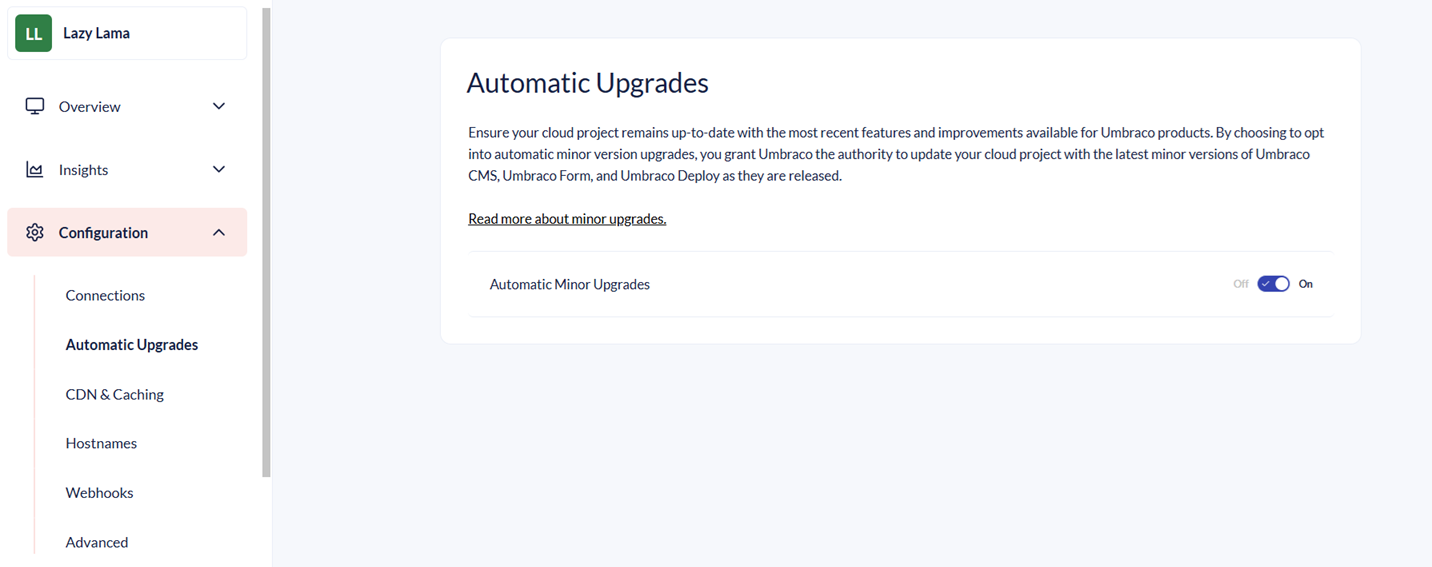
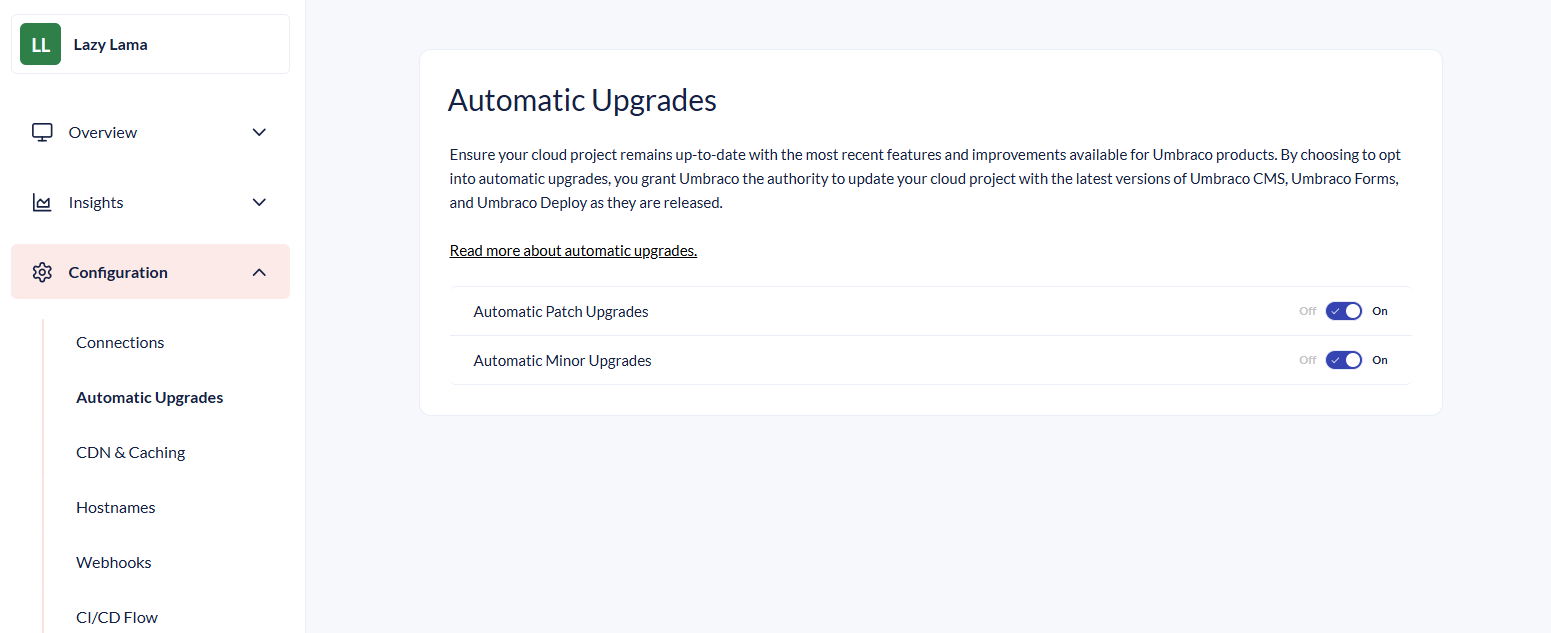
Merge cherry pick of release notes

diff --git a/umbraco-cloud/optimize-and-maintain-your-site/manage-product-upgrades/product-upgrades/README.md b/umbraco-cloud/optimize-and-maintain-your-site/manage-product-upgrades/product-upgrades/README.md
@@ -4,12 +4,10 @@ This document describes when and what product updates are rolled out on Umbraco 
 
 ## What products are auto-upgraded?
 
-* Umbraco CMS patch updates
-* Forms patch updates
+* Umbraco CMS
+* Forms
 * Deploy
 * Internal Umbraco Cloud services (generally these updates will not affect running websites but in some cases, if they do we will notify Umbraco Cloud users via the status page)
-
-When minor upgrades are available, you will need an additional mainline environment on your project in order to get the new version. Read the [Minor Upgrades](minor-upgrades.md) article for more details.
 
 ## When do upgrades happen?
 
@@ -18,7 +16,7 @@ When minor upgrades are available, you will need an additional mainline environm
 * The decision to roll out an upgrade will be made no later than the **Thursday** prior and the status page will be updated accordingly
 * A product upgrade will be rolled out if:
   * A fix needs to be shipped due to a critical issue in any product
-  * A patch version of Umbraco Core is ready for release
+  * A new version of Umbraco Cms is ready for release
   * A new version of Deploy is ready for release
   * A new version of Forms is ready for release
 * Umbraco Cloud reserves the right to roll out an emergency product fix to fix a critical issue at any time
@@ -33,12 +31,9 @@ Your project will not be auto-upgraded if your environments aren't running the s
 
 Before a live upgrade is rolled out on Umbraco Cloud:
 
-* Write release notes and include special upgrade instructions and/or blog posts if necessary
-* Create a new version on the issue tracker
-* Take the build from AppVeyor and push to NuGet
-* Update our.umbraco.com release page
+* Release notes, special upgrade instructions and/or blog posts are published when necessary
 * Update Umbraco Cloud’s site creation engine with the new version so that all new sites are built with the latest version
-* Run the auto-upgrader on Umbraco Cloud on a subset of test sites to verify there are no issues
+* Run the auto-upgrader on Umbraco Cloud on a subset of internal test sites to verify there are no issues
 * Run the auto-upgrader on all Umbraco Cloud sites
 
 ## The process of auto-upgrading a Umbraco Cloud project

diff --git a/umbraco-cloud/release-notes/overview-2026/2026-02-releasenotes.md b/umbraco-cloud/release-notes/overview-2026/2026-02-releasenotes.md
@@ -3,9 +3,20 @@
 ## Key Takeaways
 
 * **Release Umbraco.Cloud.Cms 13.0.1, 16.0.2 & 17.0.2** - Adds middleware that ensures the internal Azure URL remains hidden on initial requests.
+* **Opt out of automatic patch upgrades** - Allows project admins to opt out of automatic patch upgrades so you can now fully control when your project upgrades.
 
 ## Release Umbraco.Cloud.Cms 13.0.1, 16.0.2 & 17.0.2
 
 This release resolved an issue where Cloud sites end up using `localhost` or `*.azurewebsites.net` as their root domain. The issue was caused by early Azure platform requests during site startup being persisted as the site's base URL.
 
 We fixed this by using early middleware and forwarded headers to ensure the [`umbracoApplicationUrl`](../../../17/umbraco-cms/reference/configuration/webroutingsettings.md) overrides Azure hostnames before they are persisted.
+
+## Opt out of automatic patch upgrades
+
+It is now possible to opt out of automatic patch upgrades. The default setting for new projects will be on, and the default settings for existing projects will be on. 
+
+{% hint style="warning" %} 
+If you have talked to support to have them set up something that ignores your project then that will still be in effect, but if you then go and use these toggles it will overwrite the stored settings.
+{% endhint %}
+
+![UI for selecting which upgrades you want to automatically apply](../../.gitbook/assets/automatic-upgrades.png)

diff --git a/umbraco-cloud/release-notes/overview-2026/README.md b/umbraco-cloud/release-notes/overview-2026/README.md
@@ -13,3 +13,9 @@ description: Get an overview of the release notes for each month in 2026.
 * **CI/CD Flow page** - CI/CD Flow has been moved from the `Configuration -> Advanced` page to a standalone page `Configuration -> CI/CD Flow`.
 * **Enhanced debug information for CI/CD deployments** - Added a new "See More" link on the `Insights -> Project History` page for CI/CD Flow deployment events. That leads to a new page with information such as logs and artifact info about the deployment.
 * **List of deployment artifacts** - Added a list of deployment artifacts on the `Configuration -> CI/CD Flow` page with a download link to help with debugging.
+
+
+## [February 2026](2026-02-releasenotes.md)
+
+* **Opt out of automatic patch upgrades** - Allows project admins to opt out of automatic patch upgrades so you can now fully control when your project upgrades.
+
